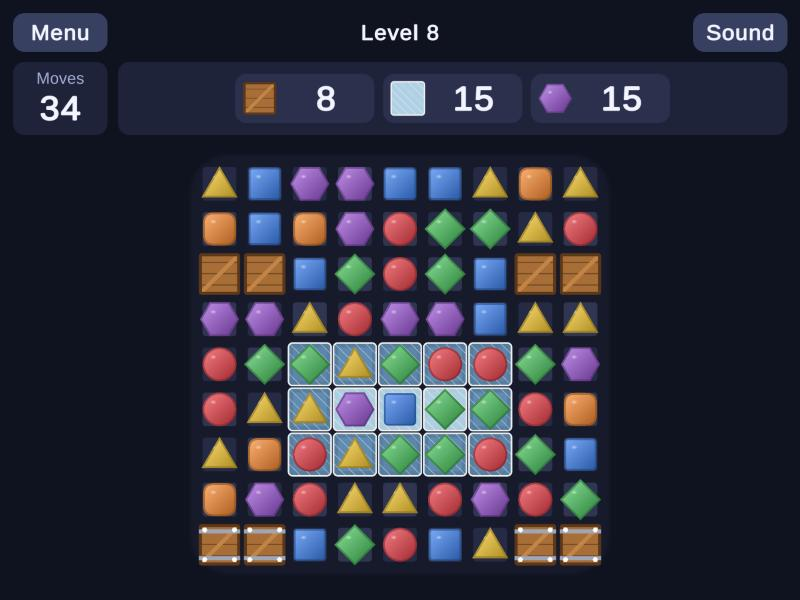
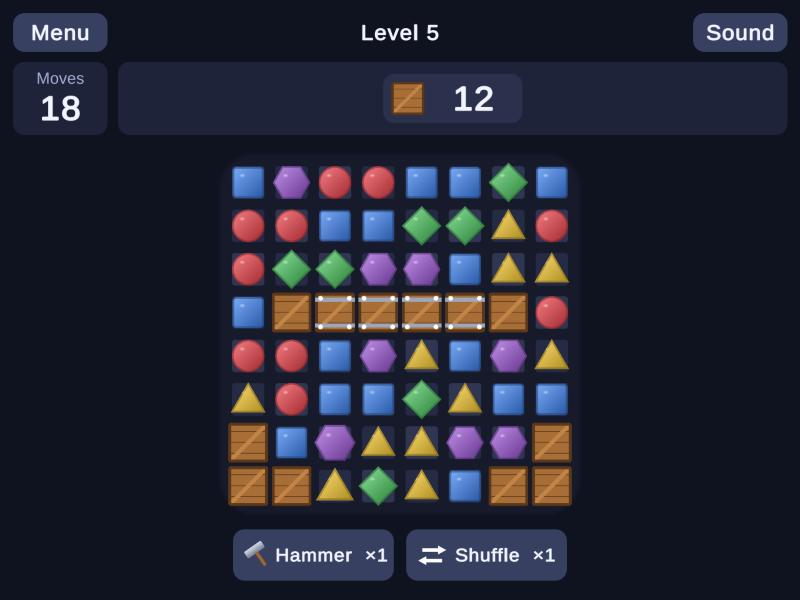
README: boosters, pooling, test counts

diff --git a/README.md b/README.md
@@ -1,5 +1,7 @@
 # Match-3 Puzzle (Unity)
 
+[![tests](https://github.com/iamehmetozdemir/match3-unity/actions/workflows/tests.yml/badge.svg)](https://github.com/iamehmetozdemir/match3-unity/actions/workflows/tests.yml)
+
 [English](#english) · [Türkçe](#türkçe)
 
 **Play in your browser:** https://iamehmetozdemir.github.io/match3-unity/
@@ -23,6 +25,7 @@ A match-3 puzzle game I made in Unity 6 with C#. You swap neighbouring tiles to 
 - **Obstacles:** ice sits under a tile and cracks when that tile is cleared (some have two layers). Boxes take up a cell, block falling tiles, and break when you match next to them or hit them with a special tile (some need two hits).
 - **Special tiles:** 4 in a row makes a rocket (clears a row or column), an L or T shape makes a bomb (3x3 area), 5 in a row makes a color bomb (clears one color). They can trigger each other.
 - Chain reactions score more with every step, and a score popup shows how much you got.
+- **Boosters** that don't cost a move: a hammer that smashes one tile or hits a box, and a shuffle. One of each per level.
 - Menu with level select and 1-3 stars per level (saved on the device), sound effects, hints when you're stuck, and the board shuffles if no move is left.
 - No art or audio files: all sprites are drawn in code and all sounds are generated from simple waves. Every color also has its own shape.
 
@@ -30,11 +33,13 @@ A match-3 puzzle game I made in Unity 6 with C#. You swap neighbouring tiles to 
 
 The game rules live in `Assets/Scripts/Core` and don't use anything from Unity. `MatchEngine.TrySwap` plays out a whole turn at once and returns a plain description of what happened (cleared tiles, cracked ice, damaged boxes, what fell, what was refilled, for each step of the chain). The Unity side (`Assets/Scripts/Game`) just replays that as animation and sound. That made the rules easy to test without opening Unity.
 
+Tiles and particles are reused from a pool instead of being created and destroyed on every match, to avoid garbage collection hitches on phones.
+
 ### Tests and level tuning
 
-- 41 unit tests for the rules: matches, every special tile, chains, gravity, ice, boxes (including tiles falling around them), goals, stars, shuffling.
-- 4 Play Mode tests that start the real game, load every level, play 25 turns on the hardest one, and check that what's on screen matches the board.
-- The rules tests also run without Unity: `dotnet test Match3.Core.Tests`.
+- 48 unit tests for the rules: matches, every special tile, chains, gravity, ice, boxes (including tiles falling around them), goals, stars, boosters, shuffling.
+- 5 Play Mode tests that start the real game, load every level, play 25 turns on the hardest one, use both boosters, and check that what's on screen matches the board.
+- The rules tests also run without Unity (`dotnet test Match3.Core.Tests`), and GitHub Actions runs them on every push.
 
 I set the move counts with a small simulator (`Match3.LevelSim`). It plays every level 200 times with a bot that picks random moves and a bot that always picks the move with the most goal progress:
 
@@ -60,7 +65,7 @@ Controls: drag a tile towards a neighbour, or click two neighbouring tiles.
 ### Not done / ideas
 
 - The interface uses Unity's IMGUI so the project needs no assets. A uGUI or UI Toolkit version would look more polished.
-- No boosters you can use before or during a level.
+- No way to earn or buy more boosters.
 - I haven't tried it on a phone. Touch should work through Unity's mouse emulation, but I haven't checked.
 
 ## Türkçe
@@ -71,6 +76,7 @@ Unity 6 ve C# ile yaptığım bir match-3 bulmaca oyunu. Yan yana taşları değ
 - **Engeller:** buz bir taşın altında duruyor ve o taş temizlenince çatlıyor (bazıları iki kat). Kutular bir hücreyi kaplıyor, düşen taşları durduruyor; yanında eşleşme yapınca ya da özel taşla vurunca kırılıyor (bazıları iki vuruş istiyor).
 - **Özel taşlar:** 4'lü sıra roket (satır ya da sütunu temizler), L veya T şekli bomba (3x3 alan), 5'li sıra renk bombası (bir rengin hepsini temizler). Birbirlerini tetikleyebiliyorlar.
 - Zincirleme patlatmalar her adımda daha çok puan veriyor, kazandığın puan ekranda yazıyor.
+- Hamle harcamayan **güçlendiriciler**: bir taşı kıran ya da kutuya vuran çekiç ve karıştırma. Her level'da birer tane.
 - Level seçimli menü ve level başına 1-3 yıldız (cihazda kaydediliyor), ses efektleri, takılınca ipucu; hamle kalmazsa tahta karışıyor.
 - Hiç görsel ya da ses dosyası yok: tüm sprite'lar kodla çizildi, tüm sesler basit dalgalardan üretiliyor. Her rengin kendi şekli de var.
 
@@ -78,11 +84,13 @@ Unity 6 ve C# ile yaptığım bir match-3 bulmaca oyunu. Yan yana taşları değ
 
 Oyun kuralları `Assets/Scripts/Core` içinde ve Unity'den hiçbir şey kullanmıyor. `MatchEngine.TrySwap` bir hamlenin hepsini bir anda oynayıp ne olduğunu düz veri olarak veriyor (temizlenen taşlar, çatlayan buz, hasar alan kutular, ne düştü, ne yeniden doldu, zincirin her adımı için). Unity tarafı (`Assets/Scripts/Game`) bunu sadece animasyon ve ses olarak tekrar oynatıyor. Böylece kuralları Unity'yi açmadan test etmek kolay oldu.
 
+Taşlar ve parçacıklar her eşleşmede oluşturulup silinmek yerine bir havuzdan tekrar kullanılıyor; telefonda çöp toplayıcı kaynaklı takılmaları önlemek için.
+
 ### Testler ve level ayarı
 
-- Kurallar için 41 birim test: eşleşmeler, her özel taş, zincirler, yerçekimi, buz, kutular (taşların etraflarından düşmesi dahil), hedefler, yıldızlar, karıştırma.
-- Gerçek oyunu başlatan, her level'ı yükleyen, en zor level'da 25 hamle oynayan ve ekrandakinin tahtayla aynı olduğunu kontrol eden 4 Play Mode testi.
-- Kural testleri Unity olmadan da çalışıyor: `dotnet test Match3.Core.Tests`.
+- Kurallar için 48 birim test: eşleşmeler, her özel taş, zincirler, yerçekimi, buz, kutular (taşların etraflarından düşmesi dahil), hedefler, yıldızlar, güçlendiriciler, karıştırma.
+- Gerçek oyunu başlatan, her level'ı yükleyen, en zor level'da 25 hamle oynayan, iki güçlendiriciyi de kullanan ve ekrandakinin tahtayla aynı olduğunu kontrol eden 5 Play Mode testi.
+- Kural testleri Unity olmadan da çalışıyor (`dotnet test Match3.Core.Tests`) ve GitHub Actions her push'ta çalıştırıyor.
 
 Hamle sayılarını küçük bir simülatörle (`Match3.LevelSim`) ayarladım. Her level'ı 200 kez rastgele oynayan bir botla ve her zaman hedefe en çok katkı yapan hamleyi seçen bir botla oynatıyor. Sonuçlar yukarıdaki tabloda. Açgözlü bot ileriyi planlamıyor, o yüzden bir insan son level'larda daha iyi yapmalı. Henüz benden başka kimse denemedi.
 
@@ -95,5 +103,5 @@ Kontroller: taşı komşusuna doğru sürükle ya da yan yana iki taşa tıkla.
 ### Yapılmayanlar / fikirler
 
 - Proje hiç dosya gerektirmesin diye arayüz Unity'nin IMGUI'siyle yapıldı. uGUI ya da UI Toolkit ile daha şık olurdu.
-- Level öncesi ya da sırasında kullanılan güçlendiriciler yok.
+- Daha fazla güçlendirici kazanmanın ya da almanın bir yolu yok.
 - Telefonda denemedim. Dokunma, Unity'nin fare emülasyonuyla çalışmalı ama kontrol etmedim.
